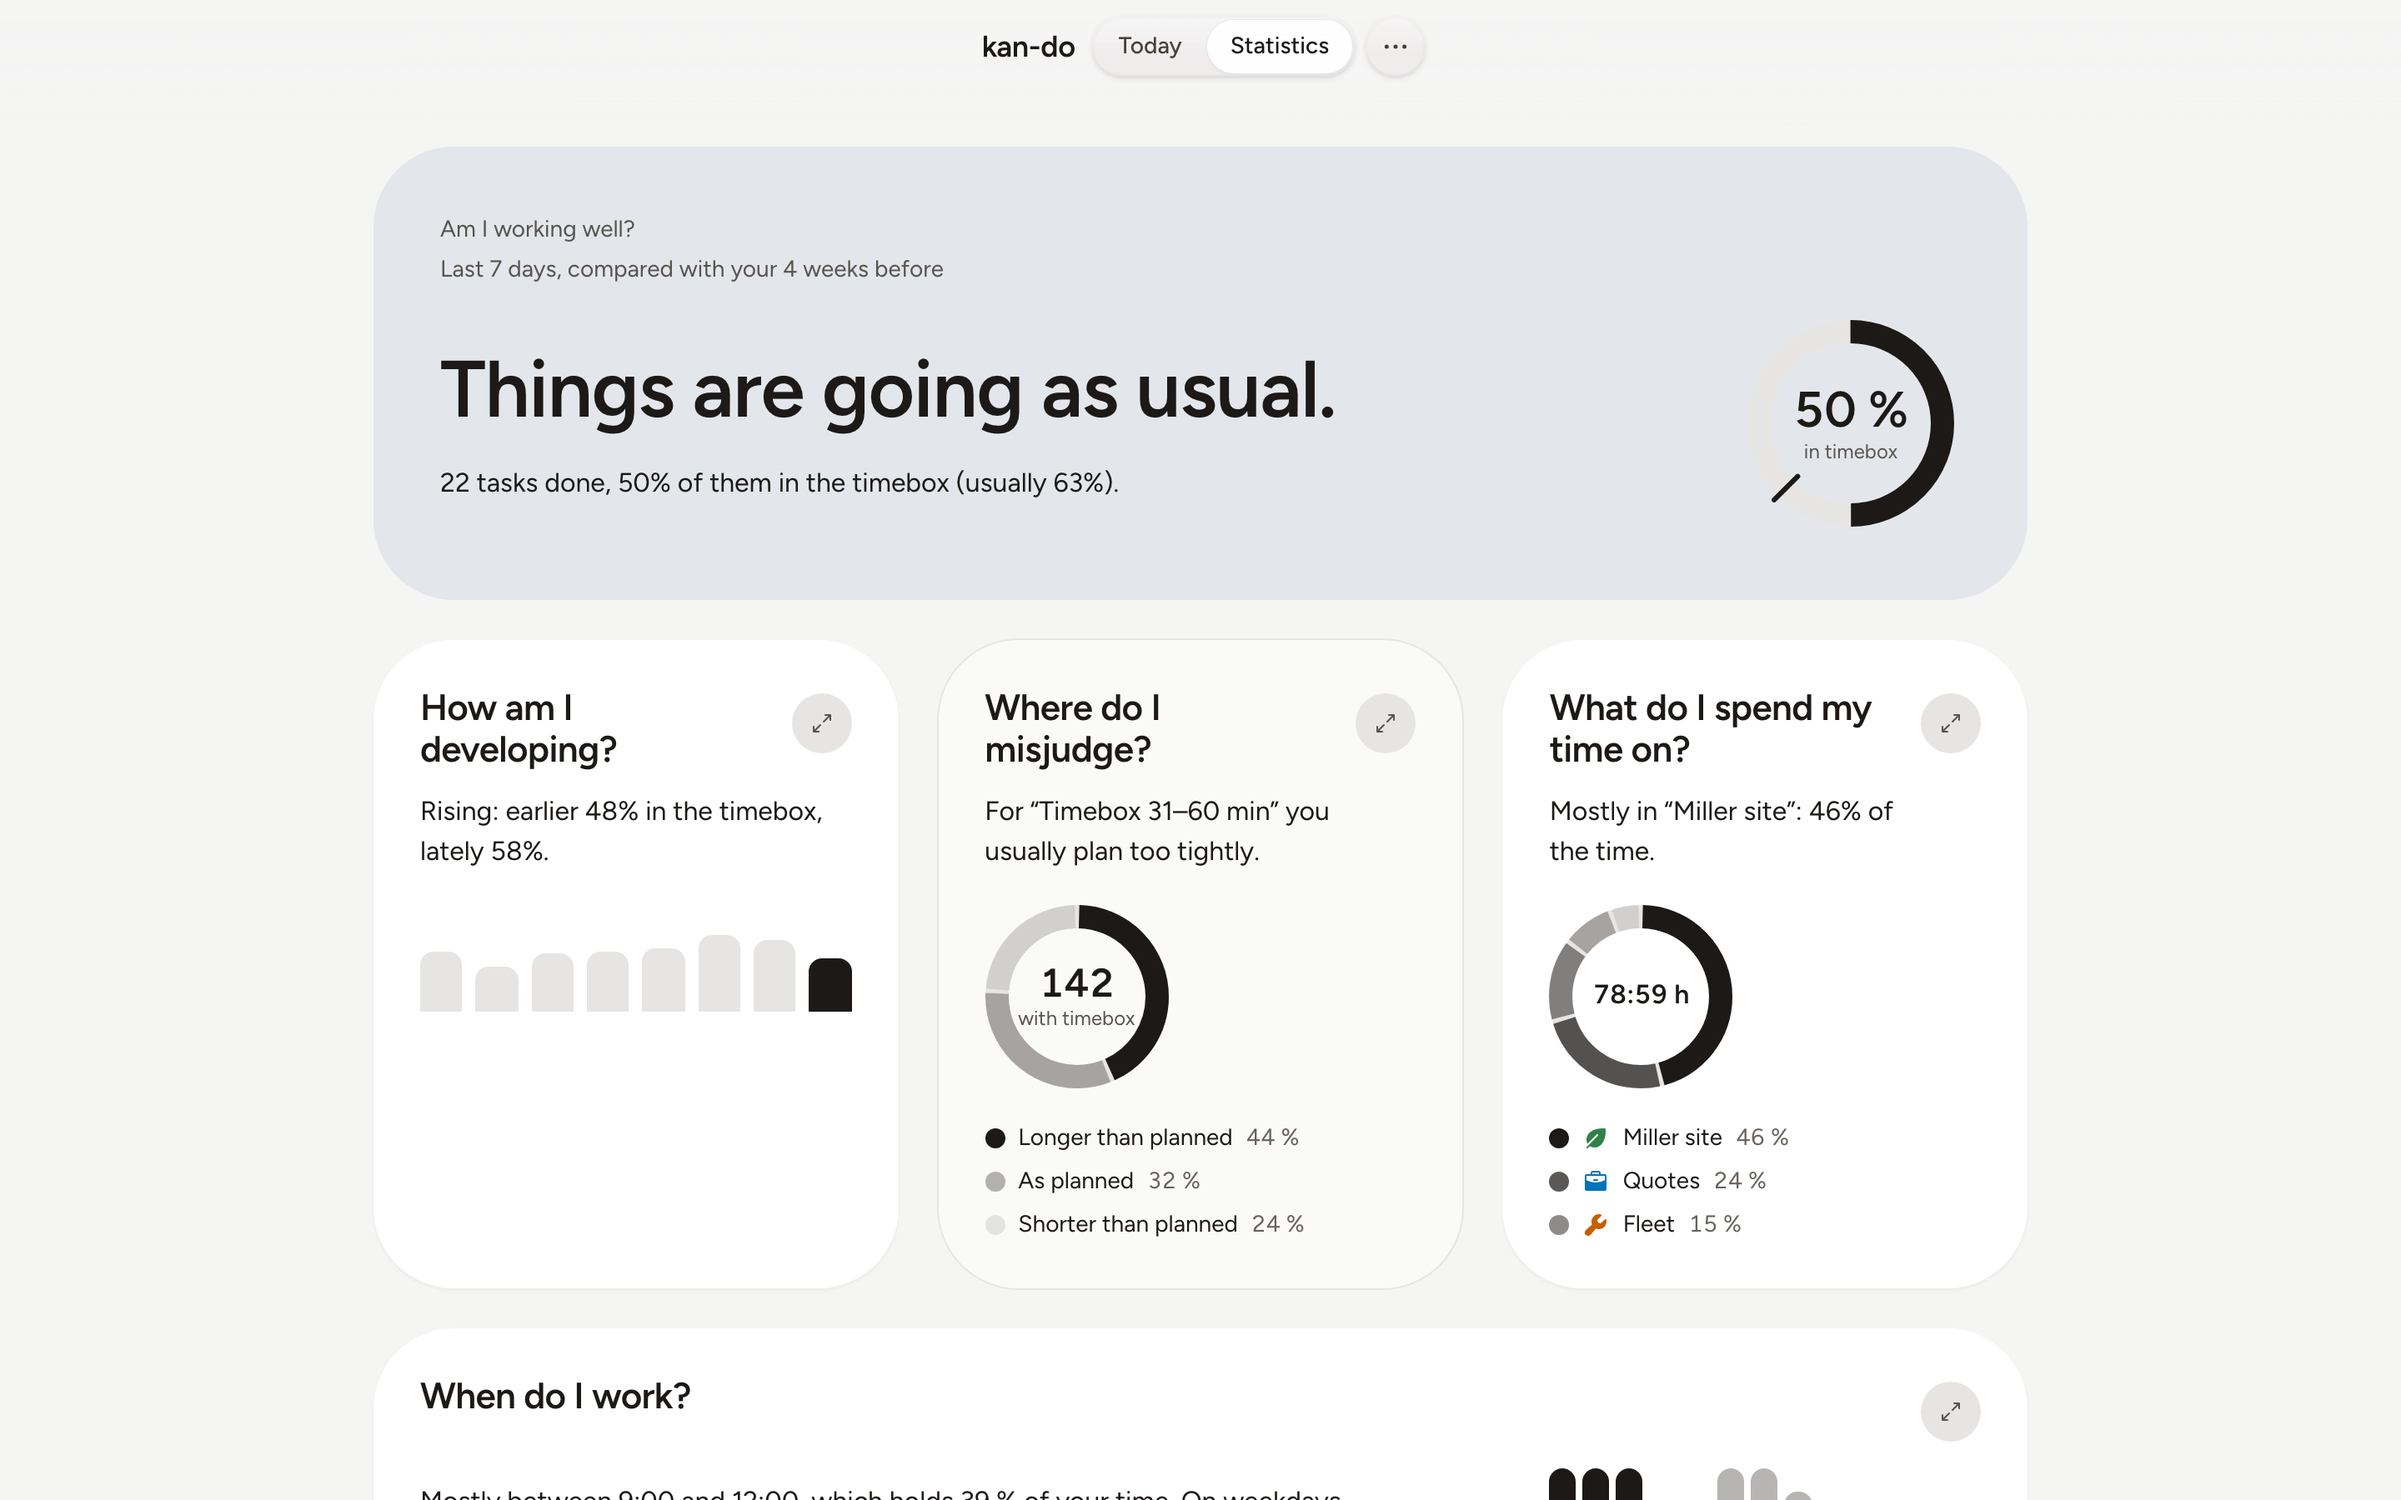
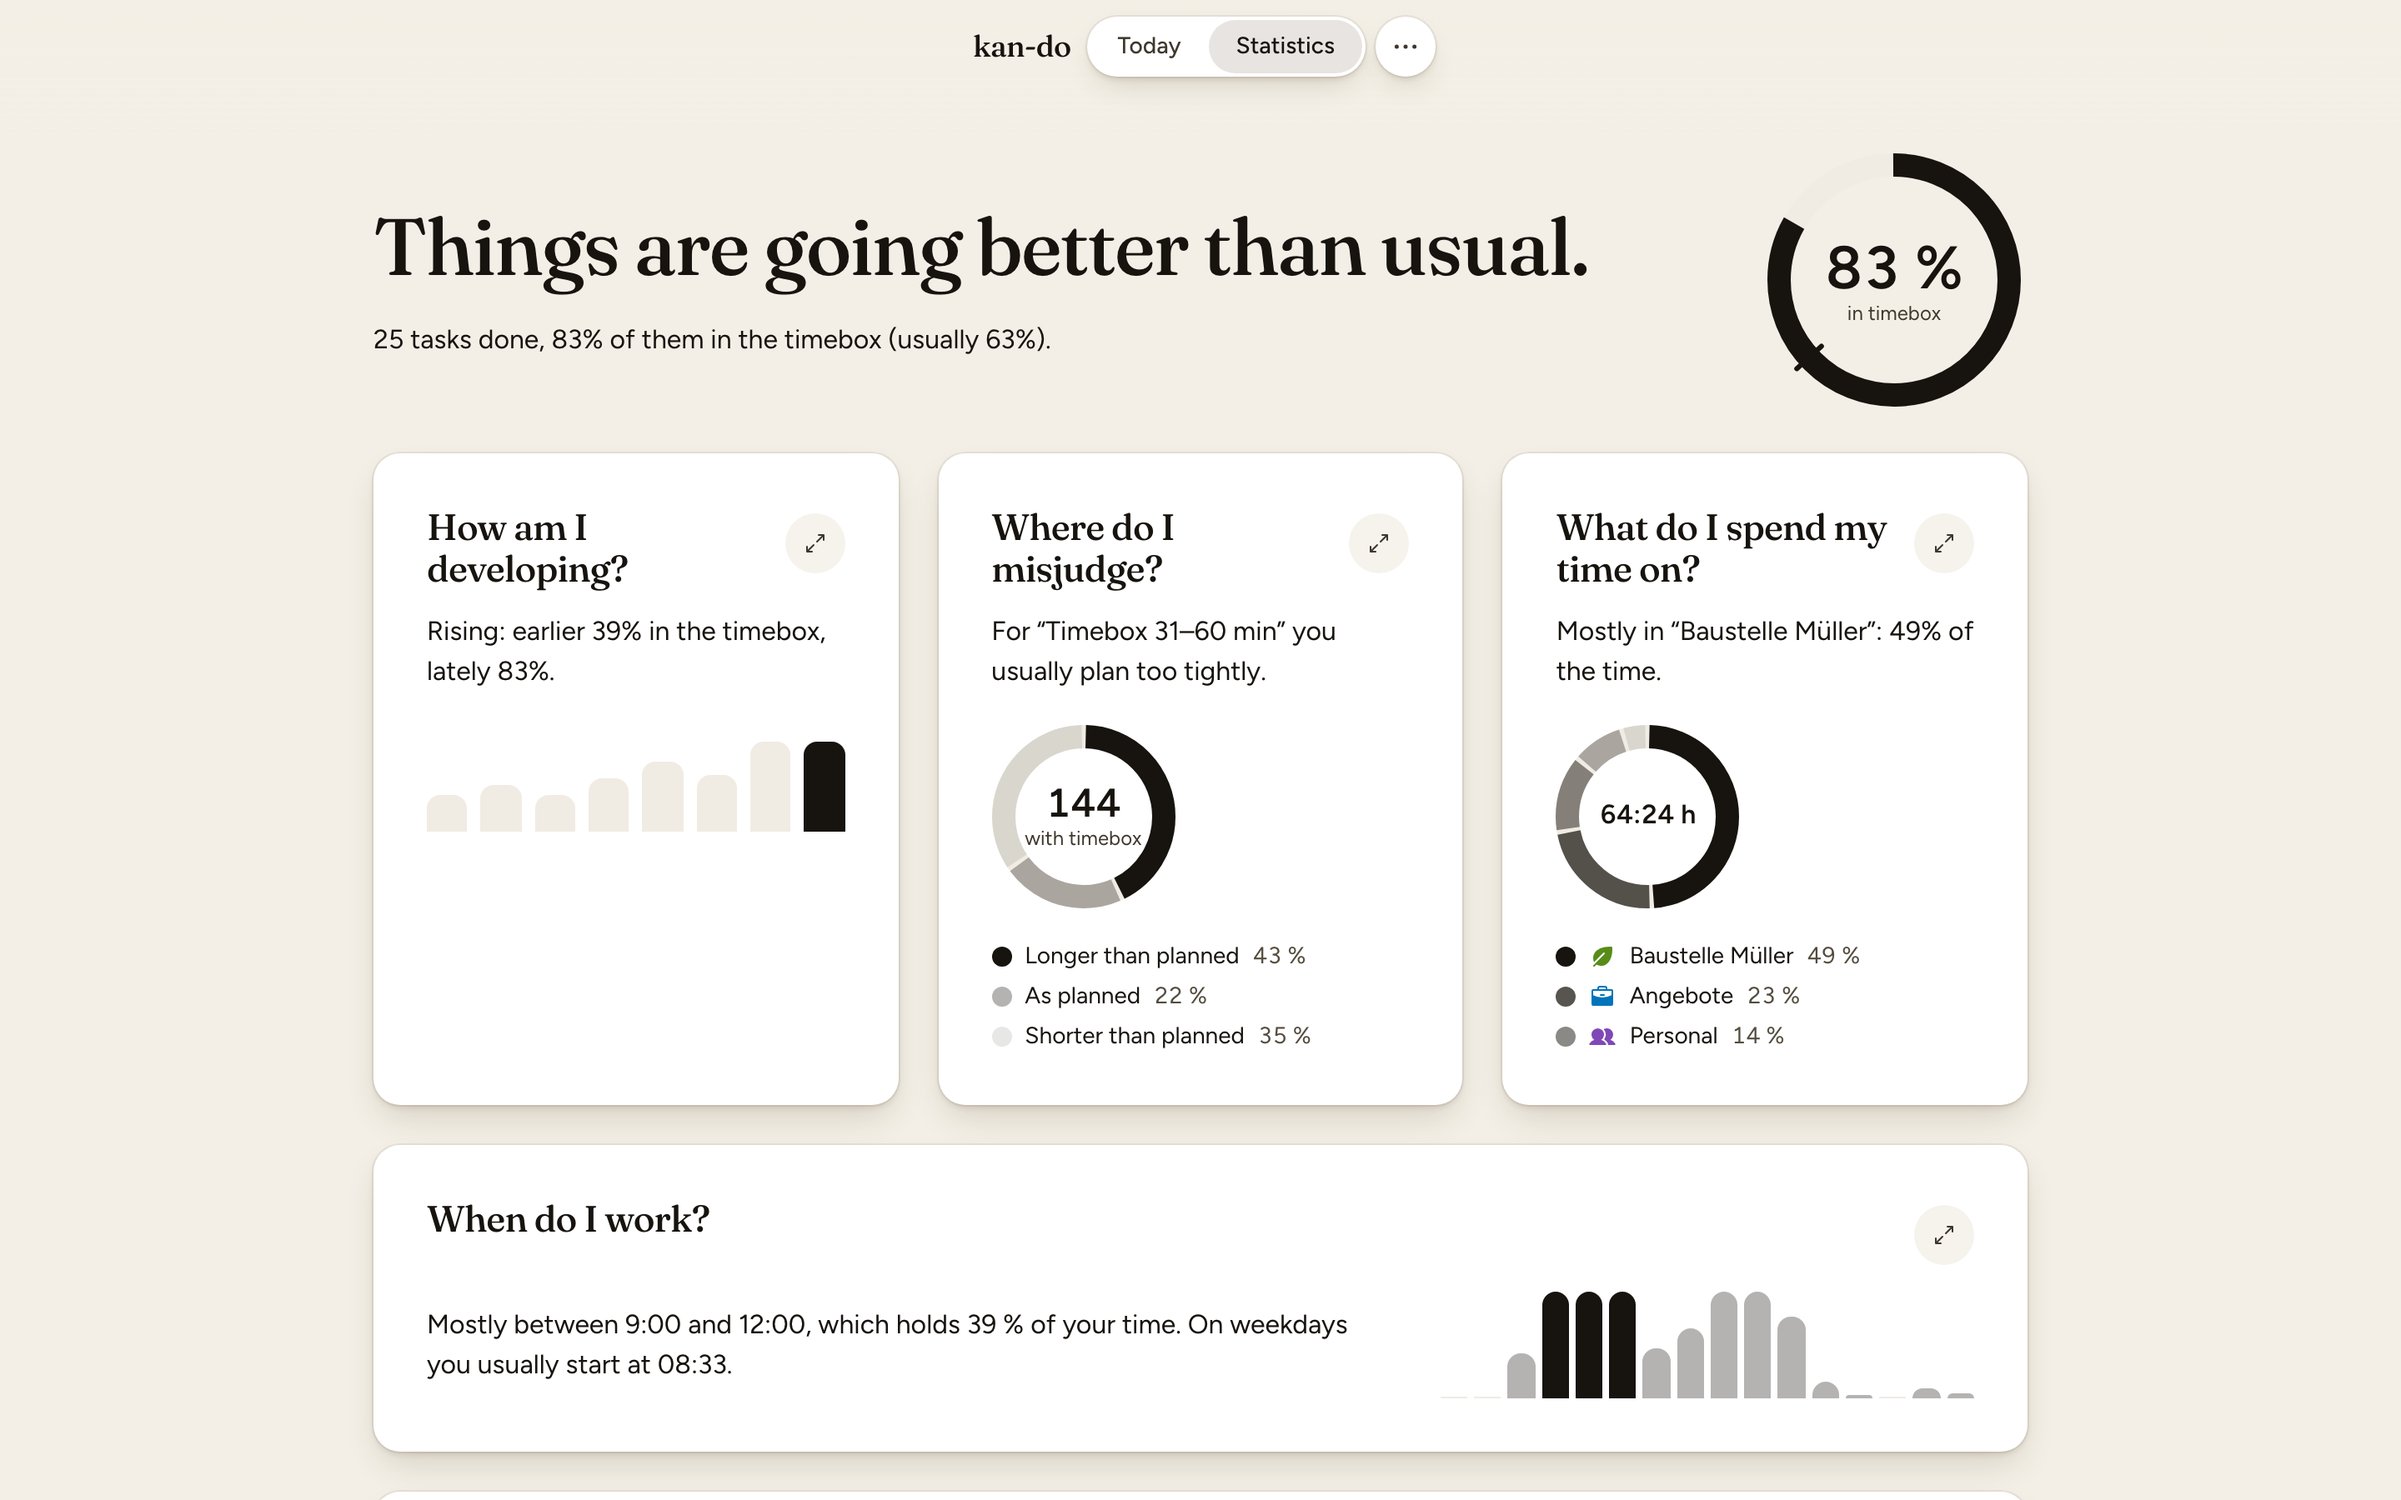
docs(readme): retake the statistics screenshot from 0.15.0 with a showcase history

diff --git a/README.md b/README.md
@@ -12,9 +12,9 @@ Want to help build kan-do? See [CONTRIBUTING.md](CONTRIBUTING.md).
 
 ![A day with kan-do in four screenshots: the welcome page on first start, the morning look back at yesterday, the board with Open, Now, Waiting and Done during the day, and closing the day in the evening](docs/images/readme-day.jpg)
 
-![The statistics page: how the last 7 days went compared with the 4 weeks before](docs/images/readme-statistics.png)
+![The statistics page: how the last 7 days went compared with the weeks before, how estimates develop, where you misjudge, what you spend time on and when you work](docs/images/readme-statistics.png)
 
-<sub>A day with kan-do, from first start to closing the day. Screenshots of the demo board with the English interface. The demo tasks ship in German; they were shown in English here.</sub>
+<sub>A day with kan-do, from first start to closing the day. Screenshots of the demo board with the English interface. The demo tasks are German sample data; the statistics show a made-up history of eight weeks.</sub>
 
 ## What you get
 
